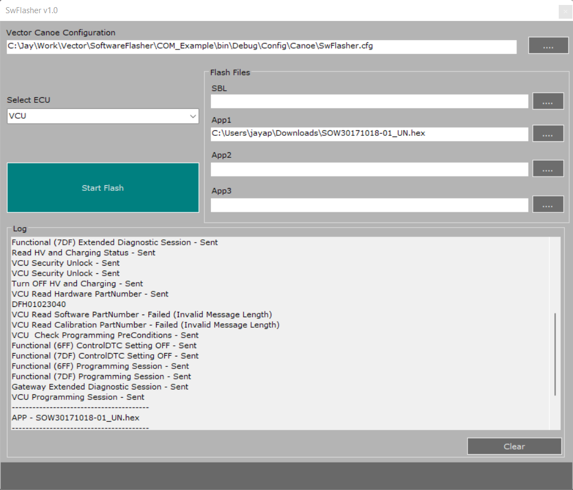
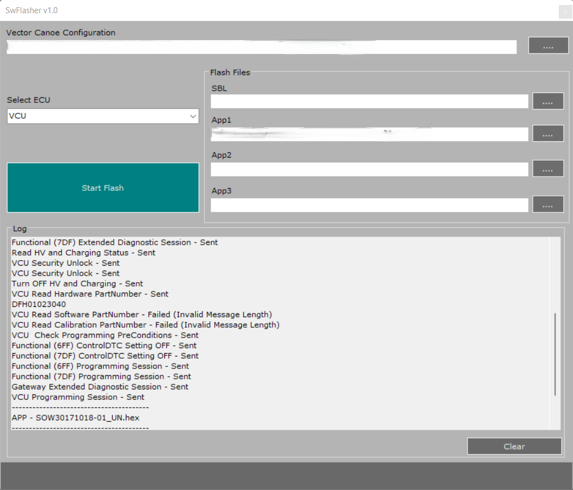
Image fixes
DF,HIL,SW,HMI

Changed region(s): [[0.0, 0.0612, 0.6527, 0.1224], [0.356, 0.2449, 0.7417, 0.3061]]

diff --git a/src/pages/Services/SoftwareEngineering.jsx b/src/pages/Services/SoftwareEngineering.jsx
@@ -53,7 +53,9 @@ const S2 = () => {
 
           <section className="content-section section-with-image reverse">
             <div className="section-image-wrapper">
-              <img src="/S_SW/Picture0.png" alt="Custom UI" className="section-image" />
+              <div style={{ maxWidth: "600px" }}>
+                <img src="/S_SW/Picture0.jpeg" alt="Custom UI" className="section-image" style={{ height: "auto", width: "100%", objectFit: "contain" }} />
+              </div>
             </div>
             <div className="section-text">
               <h2>SWE.1 Requirements Elicitation</h2>
@@ -78,7 +80,7 @@ const S2 = () => {
 
           <section className="content-section section-with-image">
             <div className="section-image-wrapper">
-              <img src="/S_SW/Picture1.png" alt="Connectivity" className="section-image" />
+              <img src="/S_SW/Picture1.jpeg" alt="Connectivity" className="section-image" />
             </div>
             <div className="section-text">
               <h2>SWE.2 Software Architectural Design</h2>
@@ -111,7 +113,7 @@ const S2 = () => {
 
           <section className="content-section section-with-image reverse">
             <div className="section-image-wrapper">
-              <img src="/S_SW/Picture2.png" alt="Software Updates" className="section-image" />
+              <img src="/S_SW/Picture2.jpeg" alt="Software Updates" className="section-image"  />
             </div>
             <div className="section-text">
               <h2>SWE.3 Software Detailed Design & Unit Construction</h2>
@@ -135,7 +137,7 @@ const S2 = () => {
 
           <section className="content-section section-with-image">
             <div className="section-image-wrapper">
-              <img src="/S_SW/Picture3.png" alt="Connectivity" className="section-image" />
+              <img src="/S_SW/Picture3.jpeg" alt="Connectivity" className="section-image" />
             </div>
             <div className="section-text">
               <h2>SWE.4 Software Unit Verification</h2>
@@ -166,7 +168,7 @@ const S2 = () => {
 
           <section className="content-section section-with-image reverse">
             <div className="section-image-wrapper">
-              <img src="/S_SW/Picture4.png" alt="Software Updates" className="section-image" />
+              <img src="/S_SW/Picture4.jpeg" alt="Software Updates" className="section-image" />
             </div>
             <div className="section-text">
               <h2>SWE.5 Software Integration & Integration Verification</h2>
@@ -200,7 +202,7 @@ const S2 = () => {
 
           <section className="content-section section-with-image">
             <div className="section-image-wrapper">
-              <img src="/S_SW/Picture5.png" alt="Connectivity" className="section-image" />
+              <img src="/S_SW/Picture5.jpeg" alt="Connectivity" className="section-image" />
             </div>
             <div className="section-text">
               <h2>SWE.6 Software Qualification Testing</h2>

diff --git a/src/pages/Our Products/HMI.jsx b/src/pages/Our Products/HMI.jsx
@@ -52,7 +52,7 @@ const P3 = () => {
 
           <section className="content-section section-with-image reverse">
             <div className="section-image-wrapper">
-              <img src="/P_HMI/Picture1.jpg" alt="HMI Architecture" className="section-image" />
+              <img src="/P_HMI/Picture1.png" alt="HMI Architecture" className="section-image" />
             </div>
             <div className="section-text">
               <h2>HMI (Human-Machine Interface)</h2>

diff --git a/src/pages/Our Products/SmartHIL.jsx b/src/pages/Our Products/SmartHIL.jsx
@@ -53,7 +53,7 @@ const P5 = () => {
 
           <section className="content-section section-with-image reverse">
             <div className="section-image-wrapper">
-              <img src="/P_HIL/Picture.png" alt="Custom UI" className="section-image" />
+              <img src="/P_HIL/Picture.jpeg" alt="Custom UI" className="section-image" />
             </div>
             <div className="section-text">
               <h2>Smart HIL (Hardware-in-the-Loop)</h2>
